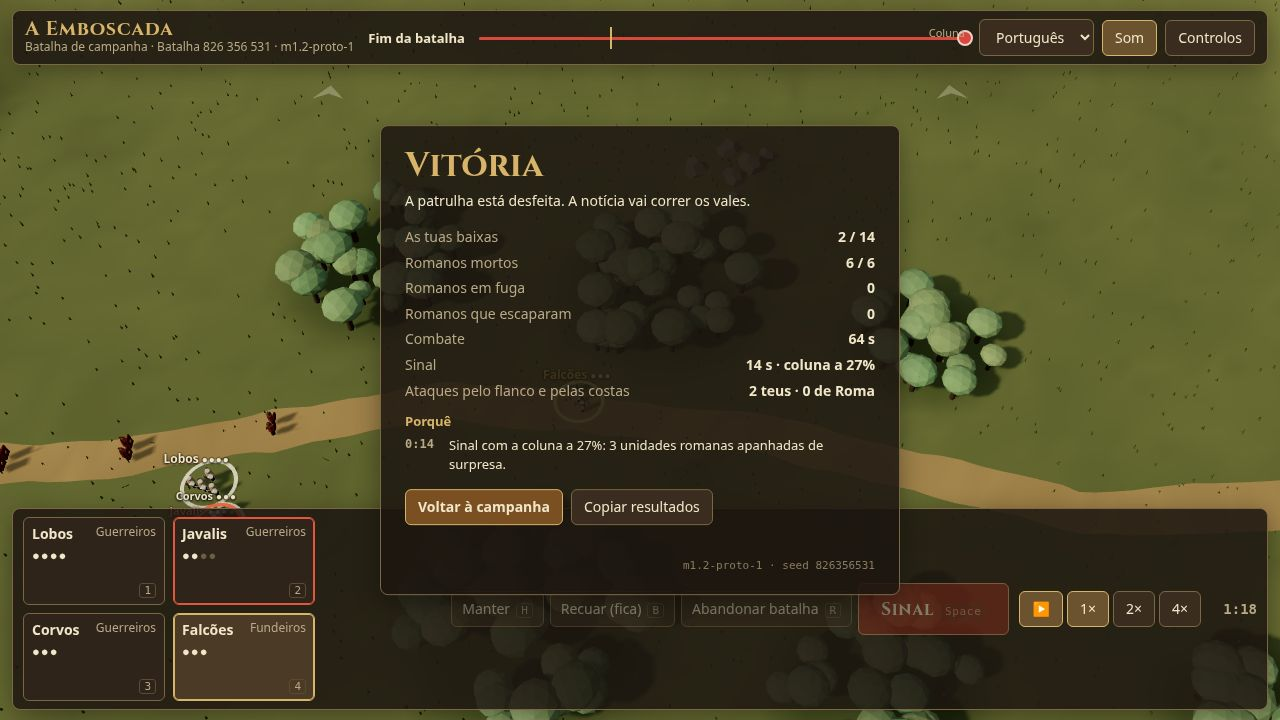
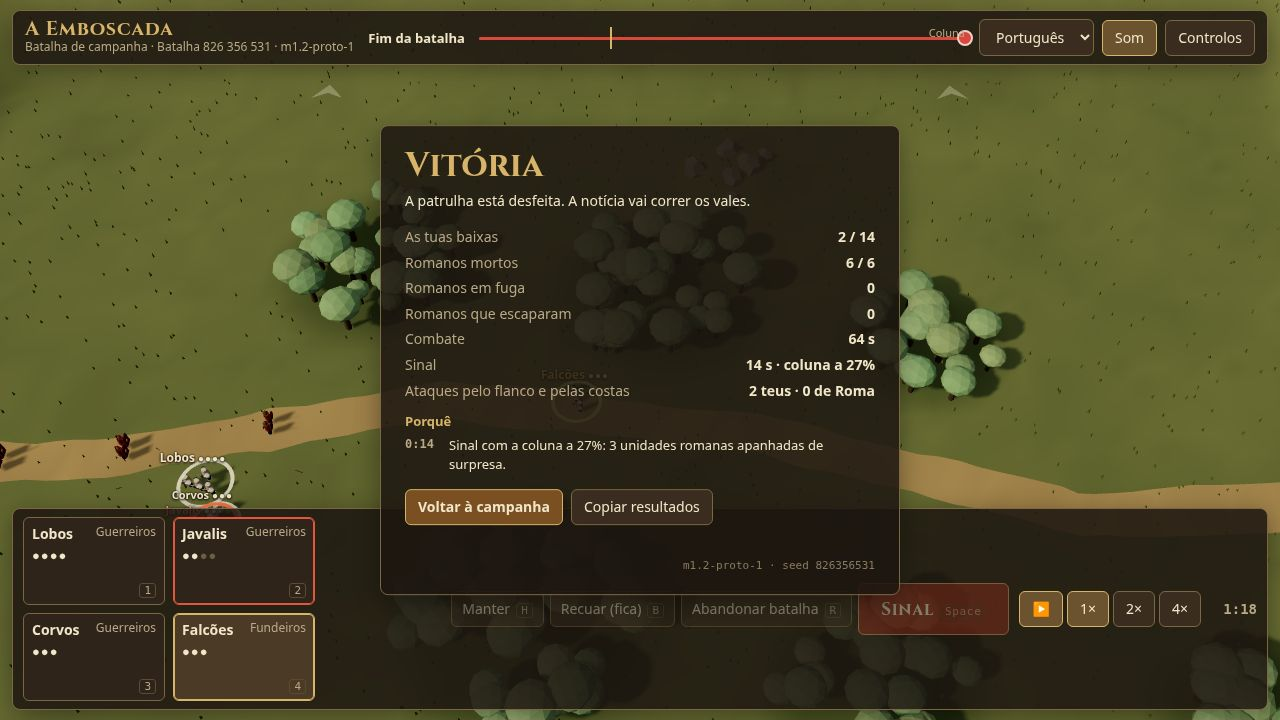
Confirm the campaign replay with the localized instructions

diff --git a/docs/playtest/m3.2a-campanha.md b/docs/playtest/m3.2a-campanha.md
@@ -41,6 +41,8 @@ Use um código anónimo por sessão, por exemplo `P01`, e notas manuais com idio
 
 ## Percurso técnico reproduzível
 
+Para instalar Chromium e Playwright fora das dependências do jogo, use o procedimento do guia de testes de browser. Os testes da fixture também exercitam o carregamento de uma gravação v1 sem os campos opcionais acrescentados entretanto. [Configuração do browser](tactical-browser.md)
+
 ```sh
 npm ci
 npm test
